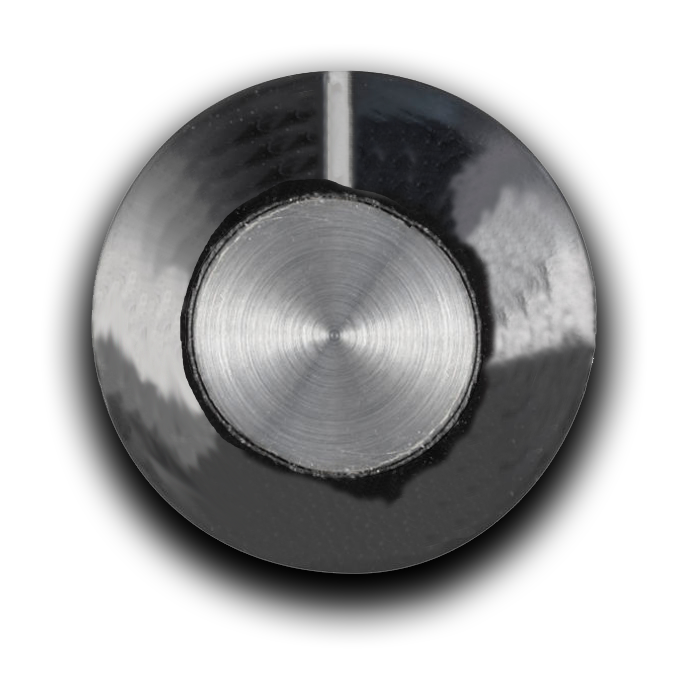
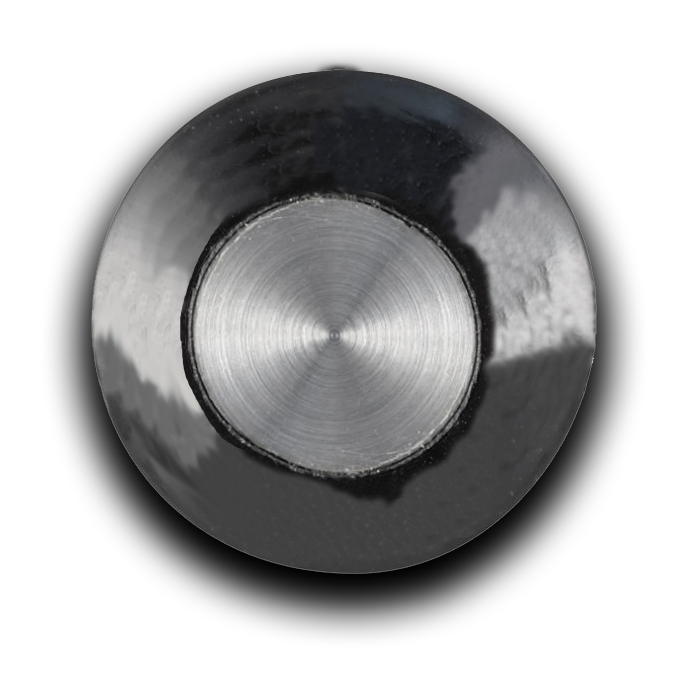
Red labels

Changed region(s): [[0.4667, 0.0936, 0.5289, 0.2808]]

diff --git a/app/cyberslug-module.js b/app/cyberslug-module.js
@@ -38,12 +38,13 @@ cyberslugApp.controller('SetupCtrl', [
 
 cyberslugApp.directive('cyberslugDial', ['$global', function($global) {
   var link = function(scope, element, attrs) {
-    $(element).append('<div class="knob"></div>');
+    $(element).append('<div class="base"><div class="knob"></div></div>');
+    $(element).append('<label/>');
 
     var setKnobToCursorEvent = function(e) {
-      var parentOffset = element.parent().offset();       
-      var x = e.pageX - parentOffset.left - (element.width() / 2);
-      var y = e.pageY - parentOffset.top - (element.height() / 2);
+      var elemOffset = element.offset();       
+      var x = e.pageX - elemOffset.left - (element.width() / 2);
+      var y = e.pageY - elemOffset.top - (element.height() / 2);
 
       var angle = Math.atan2(y, x);
       
@@ -90,11 +91,11 @@ cyberslugApp.directive('cyberslugDial', ['$global', function($global) {
       $('.dialtick', element).remove();
       
       for (var iTick = scope.min; iTick <= scope.max; iTick += scope.tickInterval) {
-        var tickelem = $('<div class="dialtick"></div>');
+        var tickelem = $('<div class="dialtick"><div class="tickmark">\u25cf</div></div>');
         tickelem.appendTo(element);
 
         if (!!scope.numberInterval && (iTick % scope.numberInterval) == 0) {
-          tickelem.text(iTick);
+          tickelem.html(iTick + '<div class="tickmark">\u25ae</div>');
         }
         
         var scalepos = 360 * (iTick - scope.min) / (scope.max - scope.min + 1);
@@ -107,6 +108,10 @@ cyberslugApp.directive('cyberslugDial', ['$global', function($global) {
     scope.$watch('min', rebuildTicks);
     scope.$watch('max', rebuildTicks);
     scope.$watch('tickInterval', rebuildTicks);
+    
+    scope.$watch('label', function(newValue) {
+      $('label', element).text(newValue);
+    });
   };
   
   return {
@@ -115,7 +120,8 @@ cyberslugApp.directive('cyberslugDial', ['$global', function($global) {
       max: '=',
       min: '=',
       tickInterval: '=',
-      numberInterval: '='
+      numberInterval: '=',
+      label: '='
     },
     link: link
   };

diff --git a/cyberslug.css b/cyberslug.css
@@ -230,26 +230,35 @@ canvas {
 
 
 .dial {
+  display: inline-block;
+  width: 100px;
+  height: 100px;
+  position: relative;
+  margin-bottom: 30px;
+}
+.dial .base {
   background-image: url('img/control-dial-base.png');
   background-position: center center;
   background-size: 80px 80px;
   background-repeat: no-repeat;
   
   display: inline-block;
-  width: 100px;
-  height: 100px;
-  position: relative;
+  width: 100%;
+  height: 100%;
+  
+  position: absolute;
+  top: 0;
+  left: 0;
 }
 .dial .knob {
-  content: 'aaa';
   background-image: url('img/control-dial-knob.png');
   background-position: center center;
   background-size: 80px 80px;
   background-repeat: no-repeat;
 
   display: inline-block;
-  width: 100px;
-  height: 100px;
+  width: 100%;
+  height: 100%;
   
   position: absolute;
   top: 0;
@@ -264,19 +273,37 @@ canvas {
   width: 100%;
   height: 100%;
   text-align: center;
-  padding-top: 4px;
+  padding-top: 0px;
   
   font-family: monospace;
   font-weight: bold;
-  font-size: 8px;
+  font-size: 9px;
 }
-.dial .dialtick::after {
-  content: '|';
+.dial .dialtick .tickmark {
   position: absolute;
   text-align: center;
   left: 0;
-  top: 12px;
+  top: 10px;
   width: 100%;
-  font-size: 4px;
+  font-size: 6px;
   font-weight: bold;
+}
+.dial label {
+  position: absolute;
+  width: 100%;
+  text-align: center;
+  bottom: -26px;
+  font-family: monospace;
+  font-weight: normal;
+  background-color: #800;
+  text-shadow: -2px -2px 2px #222, 1px 1px 1px #200;
+  color: #ccc;
+  box-shadow: 
+      -10px -5px 20px 0 #400 inset, 
+      -10px 1px 20px 0 #800 inset, 
+      1px 2px 10px #000, 
+      -1px -1px 2px rgba(0,0,0,.2), 
+      -50px 0px 10px 0 #600 inset;
+  font-variant: small-caps;
+  letter-spacing: 1px;
 }

diff --git a/index.php b/index.php
@@ -46,18 +46,21 @@ header("Expires: Sat, 26 Jul 1997 05:00:00 GMT"); // Date in the past
           <div id="dialrow">
             <div class="dial"
                 data-cyberslug-dial="setupCtrl.$global.setup.population.hermissenda"
+                data-label="'hermissenda'"
                 data-min="0"
                 data-max="15"
                 data-tick-interval="1"
                 data-number-interval="4"></div>
             <div class="dial"
                 data-cyberslug-dial="setupCtrl.$global.setup.population.flabellina"
+                data-label="'flabellina'"
                 data-min="0"
                 data-max="15"
                 data-tick-interval="1"
                 data-number-interval="4"></div>
             <div class="dial"
                 data-cyberslug-dial="setupCtrl.$global.setup.population.faux"
+                data-label="'faux'"
                 data-min="0"
                 data-max="15"
                 data-tick-interval="1"
